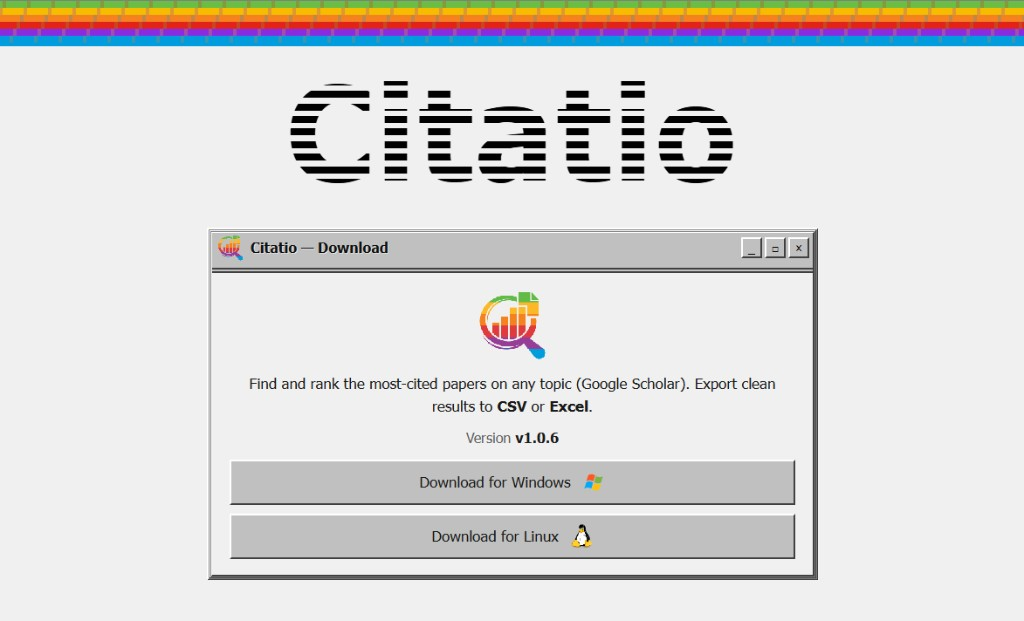
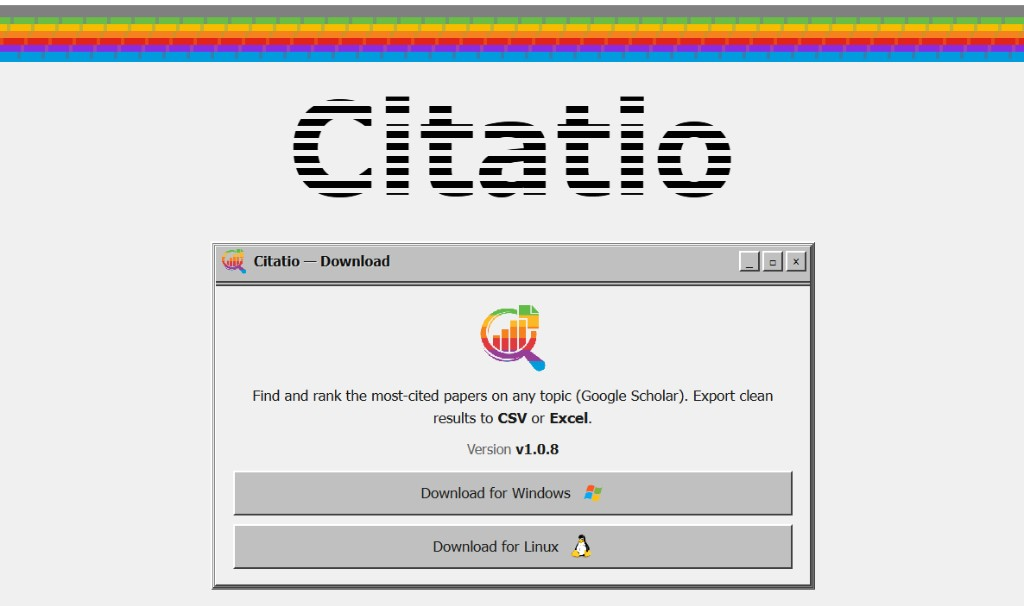
Website: new og-image (v1.0.8 preview), bump og cache ?v=3
Made-with: Cursor

Changed region(s): [[0.1875, 0.3564, 0.8125, 0.9802], [0.0, 0.0, 1.0, 0.3267]]

diff --git a/website/index.html b/website/index.html
@@ -18,7 +18,7 @@
     property="og:description"
     content="Find and rank the most-cited papers on any topic (Google Scholar). Export clean results to CSV or Excel."
   />
-  <meta property="og:image" content="https://download-citatio.vercel.app/og-image.png?v=2" />
+  <meta property="og:image" content="https://download-citatio.vercel.app/og-image.png?v=3" />
   <meta property="og:image:alt" content="Citatio — find and rank cited papers; download for Windows or Linux" />
   <meta name="twitter:card" content="summary_large_image" />
   <meta name="twitter:title" content="Citatio" />
@@ -26,7 +26,7 @@
     name="twitter:description"
     content="Find and rank the most-cited papers on any topic (Google Scholar). Export clean results to CSV or Excel."
   />
-  <meta name="twitter:image" content="https://download-citatio.vercel.app/og-image.png?v=2" />
+  <meta name="twitter:image" content="https://download-citatio.vercel.app/og-image.png?v=3" />
   <style>
     /* Matches desktop/theme.py — LIGHT palette + BevelFrame colors */
     :root {
